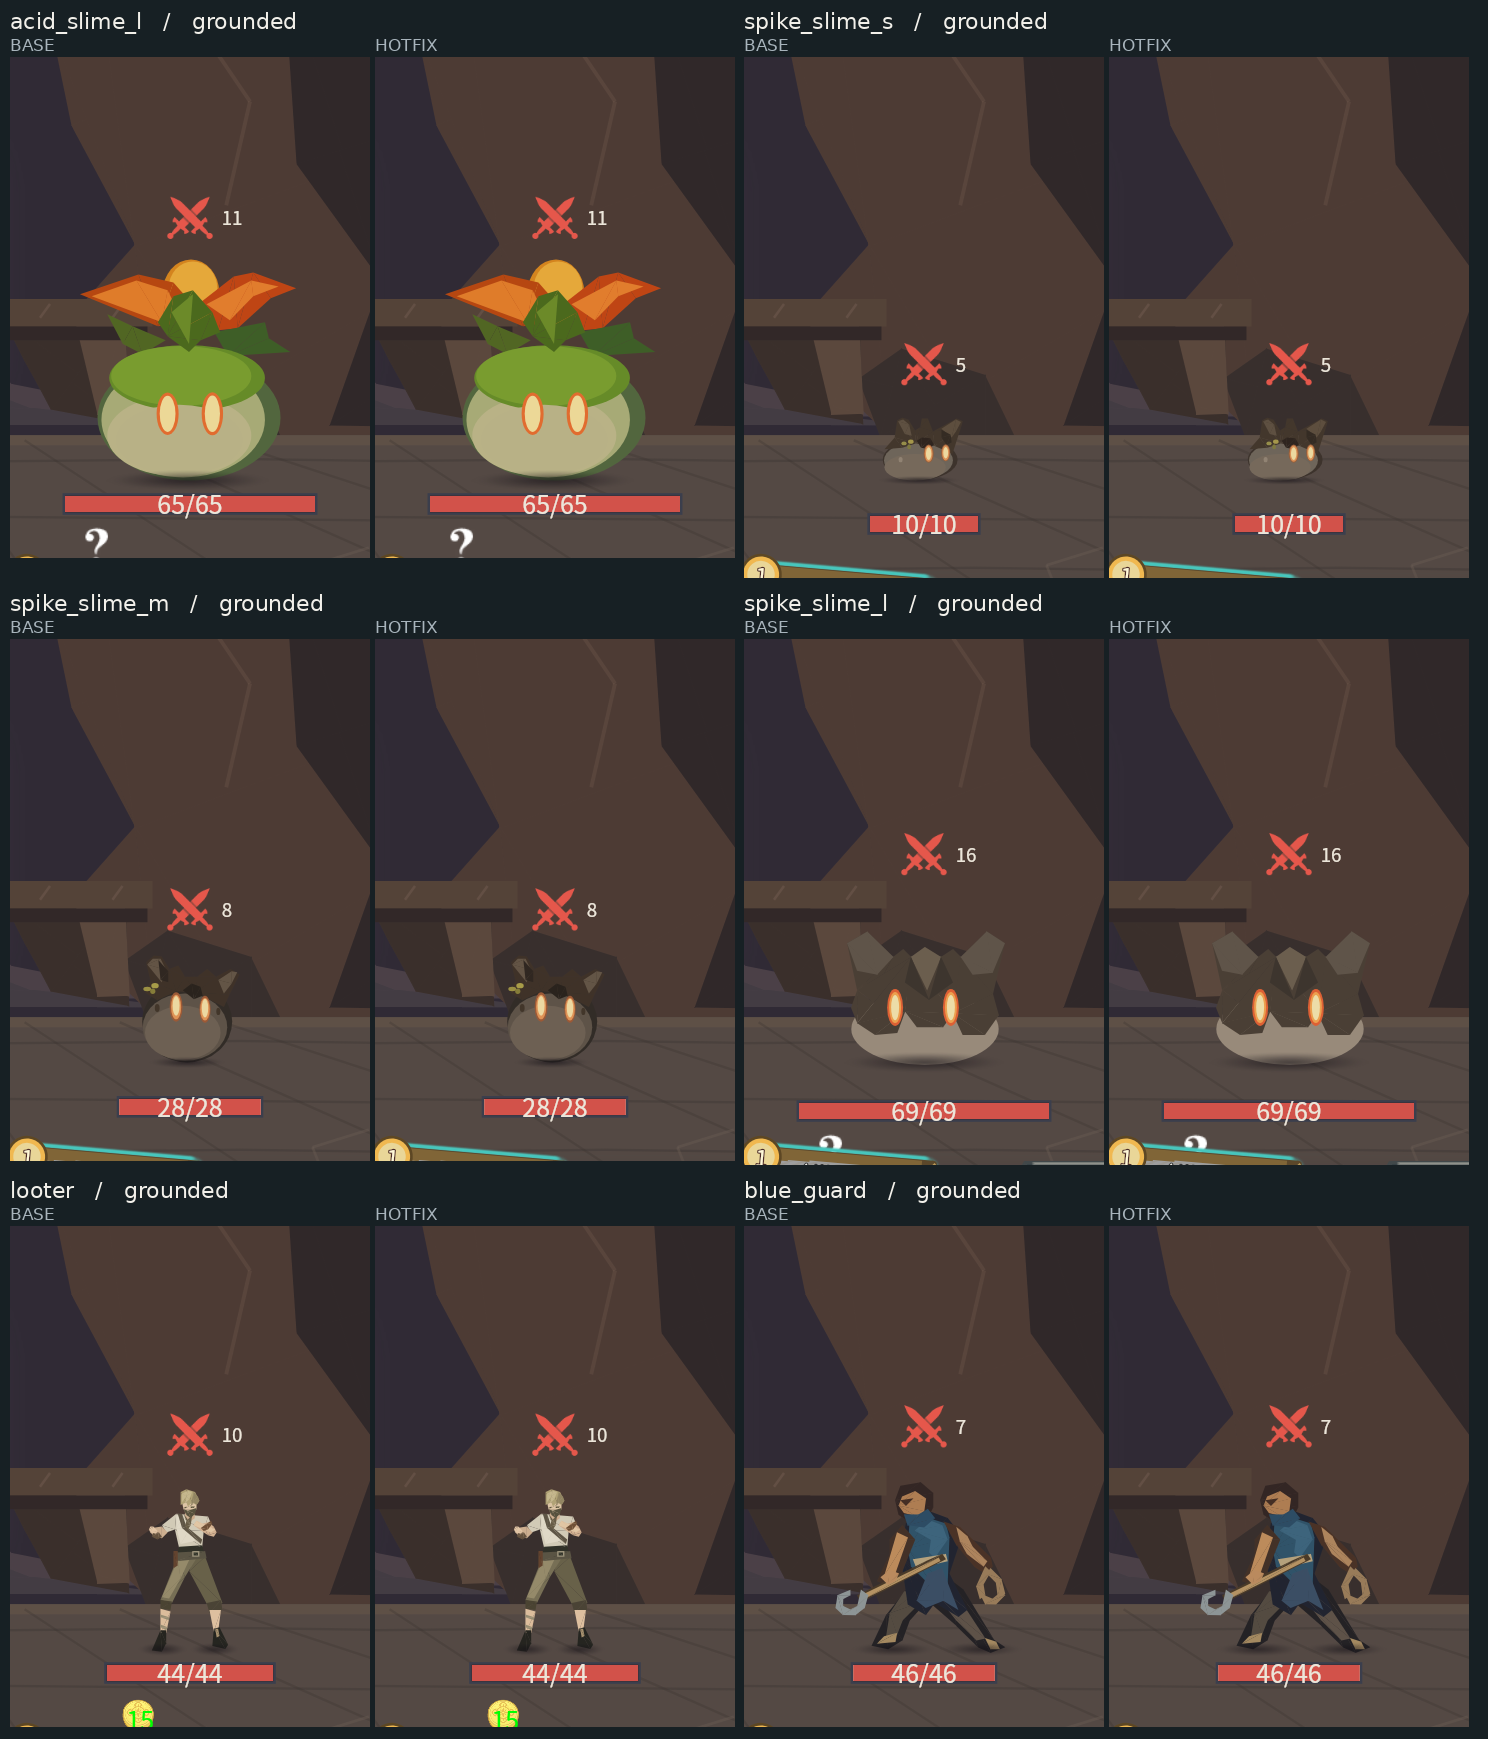
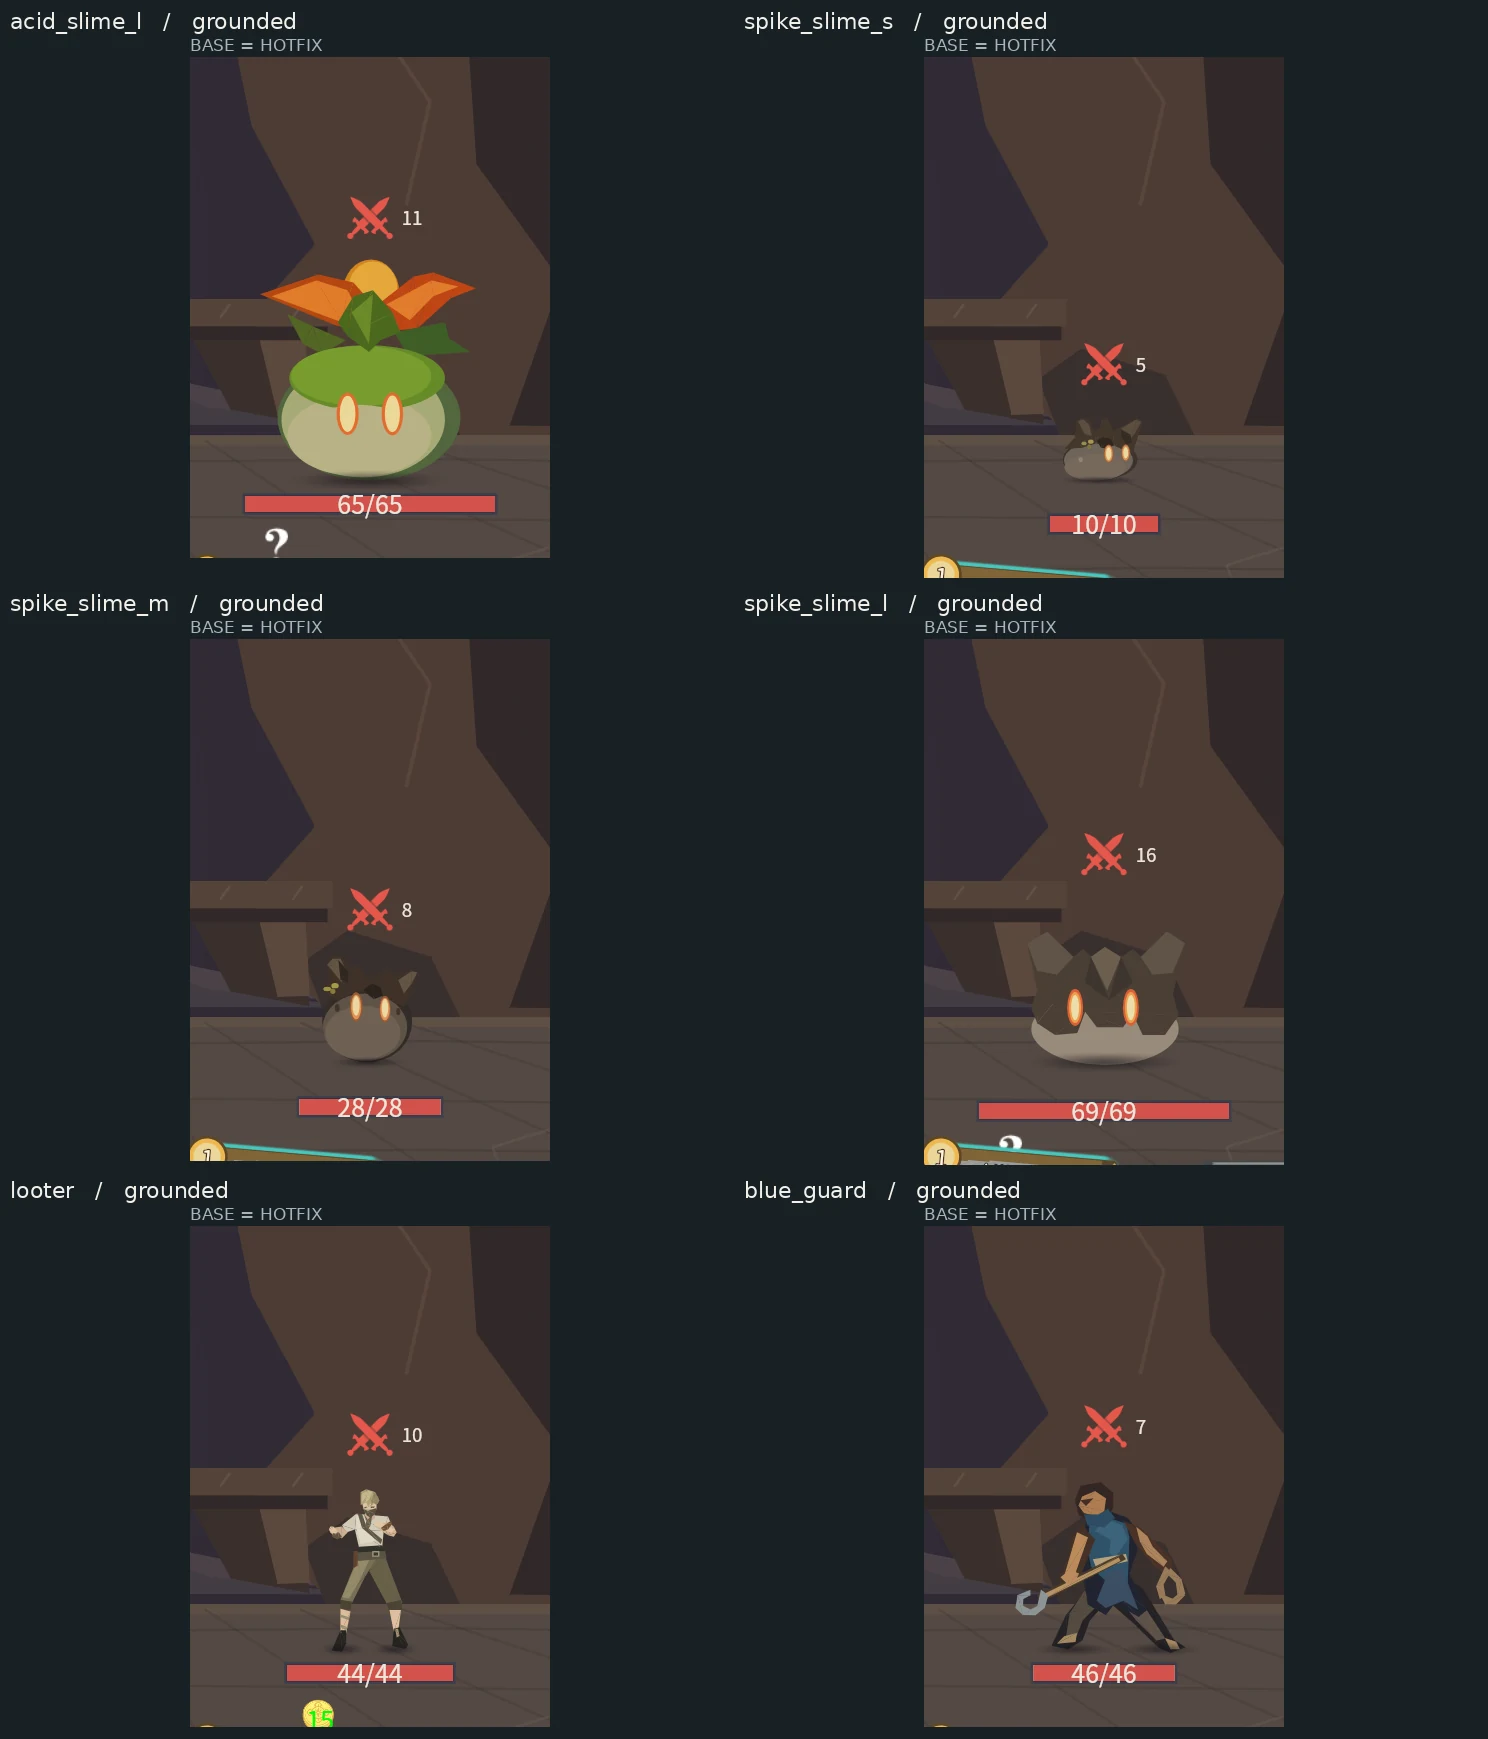
docs(release): register and compress simulator evidence

diff --git a/docs/evidence/v2.2.0-enemy-ground-contact/simulator/atlas.py b/docs/evidence/v2.2.0-enemy-ground-contact/simulator/atlas.py
@@ -1,4 +1,4 @@
-"""Compose lossless sheets from Beyond Simulator PNGs and verify the source inventory."""
+"""Compose compact evidence sheets from Beyond Simulator PNGs and verify the source inventory."""
 import argparse
 import hashlib
 import json
@@ -12,6 +12,7 @@ BASE = '5ccff59e9df396849216fb3f790be8852974c769'
 DARK = '#172024'
 INK = '#F2F0EA'
 MUTED = '#A8B4BC'
+WEBP_QUALITY = 88
 FOCUS = [
     ('act1-formations', ['double-red-louse', 'mixed-louse', 'gremlin-gang', 'small-slimes']),
     ('act2-summons', ['collector-before-summon', 'collector-summon', 'automaton-summon', 'leader-wizard-summon']),
@@ -59,19 +60,21 @@ def focus(root, before, after, font, small):
     for file, names in FOCUS:
         width, height = (1056, 594) if file == 'priority-louse-collector' else (832, 468)
         tile_height = height + 35
-        atlas = Image.new('RGB', (width * 2 + 22, tile_height * len(names) + 53), DARK)
+        identical = all(before[name]['sha256'] == after[name]['sha256'] for name in names)
+        columns = [(12, before, 'v2.2.0 BASE = HOTFIX' if identical else 'v2.2.0 BASE')]
+        if not identical:
+            columns.append((width + 16, after, 'v2.2.0 HOTFIX'))
+        atlas = Image.new('RGB', (width * len(columns) + 22, tile_height * len(names) + 53), DARK)
         draw = ImageDraw.Draw(atlas)
-        caption(draw, 'v2.2.0 BASE', (12, 13), font)
-        caption(draw, 'v2.2.0 HOTFIX', (width + 16, 13), font)
-        for row, name in enumerate(names):
-            y = 44 + tile_height * row
-            caption(draw, name, (12, y), small, MUTED)
-            caption(draw, name, (width + 16, y), small, MUTED)
-            for x, side in [(12, before), (width + 16, after)]:
+        for x, side, label in columns:
+            caption(draw, label, (x, 13), font)
+            for row, name in enumerate(names):
+                y = 44 + tile_height * row
+                caption(draw, name, (x, y), small, MUTED)
                 source = Image.open(side[name]['path']).convert('RGB')
                 atlas.paste(source.resize((width, height), Image.Resampling.LANCZOS), (x, y + 25))
         path = root / (file + '.webp')
-        atlas.save(path, lossless=True)
+        atlas.save(path, quality=WEBP_QUALITY, method=6)
         outputs.append({'file': path.name, 'sha256': digest(path), 'scenes': names})
     return outputs
 
@@ -119,13 +122,16 @@ def gallery(root, before, after, font, small):
             actor = next(e for e in after[name]['enemies'] if e['id'] == name.removeprefix('monster-'))
             title = f"{actor['id']}   /   {actor['classification']}"
             caption(draw, title, (x, y), font)
-            caption(draw, 'BASE', (x, y + 27), small, MUTED)
-            caption(draw, 'HOTFIX', (x + crop_width + 5, y + 27), small, MUTED)
-            for offset, side in [(0, before), (crop_width + 5, after)]:
+            if before[name]['sha256'] == after[name]['sha256']:
+                pairs = [(crop_width // 2, before, 'BASE = HOTFIX')]
+            else:
+                pairs = [(0, before, 'BASE'), (crop_width + 5, after, 'HOTFIX')]
+            for offset, side, label in pairs:
+                caption(draw, label, (x + offset, y + 27), small, MUTED)
                 source = Image.open(side[name]['path']).convert('RGB')
                 atlas.paste(source.crop(window), (x + offset, y + 49))
         path = root / f'official-monsters-{number:02}.webp'
-        atlas.save(path, lossless=True)
+        atlas.save(path, quality=WEBP_QUALITY, method=6)
         outputs.append({'file': path.name, 'sha256': digest(path), 'scenes': group})
     return outputs, dict(classes)
 
@@ -185,7 +191,7 @@ def main():
         'candidateSourceSha256': {path: digest(args.repo / path) for path in hashed_inputs},
         'tool': 'beyond-simulator-mcp@0.5.2',
         'scope': 'Production Lua battle state and controls run under the Fengari native UI fixture. Beyond Simulator Host renders each captured production control snapshot at 1600x900. Simulator screenshots play static snapshots. No official GIL, device, or direct click evidence from the Simulator Host.',
-        'display': '16:9, identical 1280x720 logical viewport and 1.25x scale. Atlas crop and lossless WebP only; focus sheets additionally rescale for side-by-side display.',
+        'display': f'16:9, identical 1280x720 logical viewport and 1.25x scale. Published WebP sheets use quality {WEBP_QUALITY}. Gallery sheets crop at the original pixel dimensions. Focus sheets additionally rescale for side-by-side display. Images with matching original PNG hashes can share one labeled display. All original PNG hashes are retained.',
         'generatedLuaSha256': {'before': generated_hashes(args.before), 'after': generated_hashes(args.after)},
         'captureInputsSha256': {name: digest(script_dir / name) for name in ('capture.lua','render.mjs','atlas.py')},
         'coverage': {'officialMonsters': 42, 'capturePairs': 54, 'classes': classes},

diff --git a/docs/evidence/v2.2.0-enemy-ground-contact/SIMULATOR.md b/docs/evidence/v2.2.0-enemy-ground-contact/SIMULATOR.md
@@ -1,12 +1,12 @@
 # v2.2.0 怪物接地实渲对照
 
-以发布分支基线 `5ccff59e9df396849216fb3f790be8852974c769` 对照本修复，逐边重新生成正式 `official-assets-battle-v3` 的布局及低多边形怪物 Lua。左右均保留正式两幕布景与原构造器阵容坐标，画布为 16:9。原始 PNG 均为 Beyond Simulator 0.5.2 软件 Host 的 1600×900 截图，纹理告警为零。两边的原始图与存档摘要、生成 Lua 摘要、每个敌人的艺术图元数、接触、血条和热区坐标见 [实渲清单](simulator-manifest.json)。
+以发布分支基线 `5ccff59e9df396849216fb3f790be8852974c769` 对照本修复，逐边重新生成正式 `official-assets-battle-v3` 的布局及低多边形怪物 Lua。左右均保留正式两幕布景与原构造器阵容坐标，画布为 16:9。原始 PNG 均为 Beyond Simulator 0.5.2 软件 Host 的 1600×900 截图，纹理告警为零。仓库图集以 WebP 质量 88 压缩。原始 PNG 摘要完全相同的对照共用一张图，标为 `BASE = HOTFIX`，复现仍保留每张原始 PNG。两边的原始图与存档摘要、生成 Lua 摘要、每个敌人的艺术图元数、接触、血条和热区坐标见 [实渲清单](simulator-manifest.json)。
 
 - [双赤甲虫和 Collector 的两列整图 A/B](priority-louse-collector.webp)
 - [第一幕双赤、混合甲虫、小魔群和小史莱姆](act1-formations.webp)
 - [第二幕 Collector、铜制人偶及小魔头领的生产召唤](act2-summons.webp)
 - [巡风隼保持飞行、实际 Strike 击落、头槌及恢复 Flight](act2-byrd.webp)
-- 42 个正式怪物等像素局部 A/B，[01](official-monsters-01.webp) · [02](official-monsters-02.webp) · [03](official-monsters-03.webp) · [04](official-monsters-04.webp) · [05](official-monsters-05.webp) · [06](official-monsters-06.webp) · [07](official-monsters-07.webp)
+- 42 个正式怪物按原始像素尺寸裁切的局部 A/B，[01](official-monsters-01.webp) · [02](official-monsters-02.webp) · [03](official-monsters-03.webp) · [04](official-monsters-04.webp) · [05](official-monsters-05.webp) · [06](official-monsters-06.webp) · [07](official-monsters-07.webp)
 
 Collector 依据原版实战保留高位。第 33 层正式 Boss 入口选择其专用场景，场景台座的座面承接现有立绘底部的暗椭圆，台柱落在第二幕地砖上。A/B 中 Collector 的位置、立绘尺寸、血条、意图和热区坐标逐项相同。由角色真实结束回合触发两只 Torch Head；召唤后仍选中同一套高位背景。原版画面可看到右侧 Boss 坐在抬高的树根，两只 Torch Head 在下方地面。[STS1 实战截图](https://wikiwiki.jp/slaythespire/%E3%82%B3%E3%83%AC%E3%82%AF%E3%82%BF%E3%83%BC)
 
